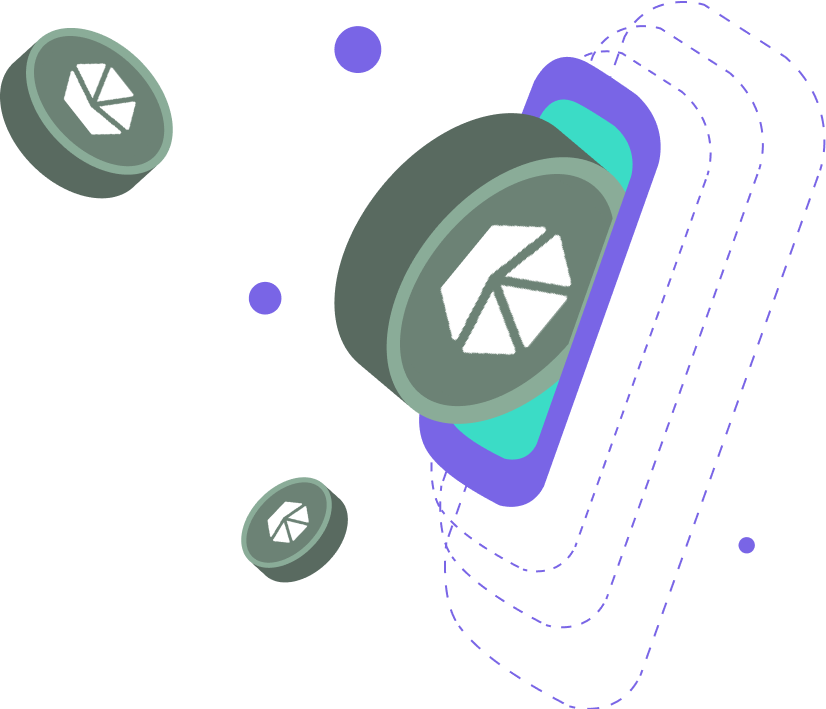
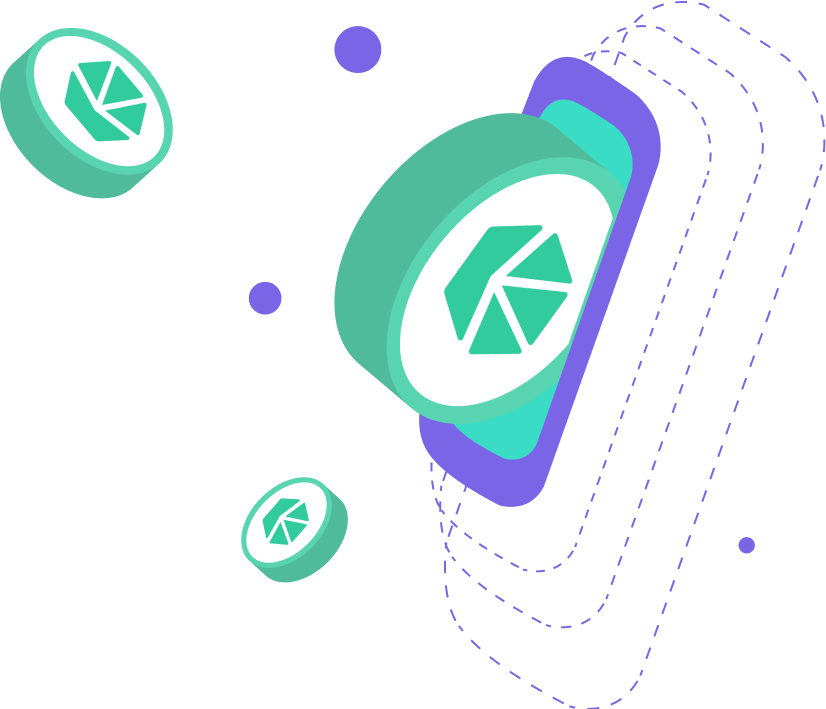
Final version of SNX & KNC

Changed region(s): [[0.3935, 0.1551, 0.7567, 0.6206], [0.0, 0.031, 0.2119, 0.2793], [0.2724, 0.6516, 0.4237, 0.8378]]

diff --git a/js/main.js b/js/main.js
@@ -298,7 +298,7 @@
                 'crv/cad': '/page#/advancedTrade/61',
                 'aave/cad': '/page#/advancedTrade/62',
                 'snx/cad': '/page#/advancedTrade/64',
-                'knc/cad': '/page#/advancedTrade/63',
+                'knc/cad': '/page#/advancedTrade/65',
             }
 
             let index = 1;
